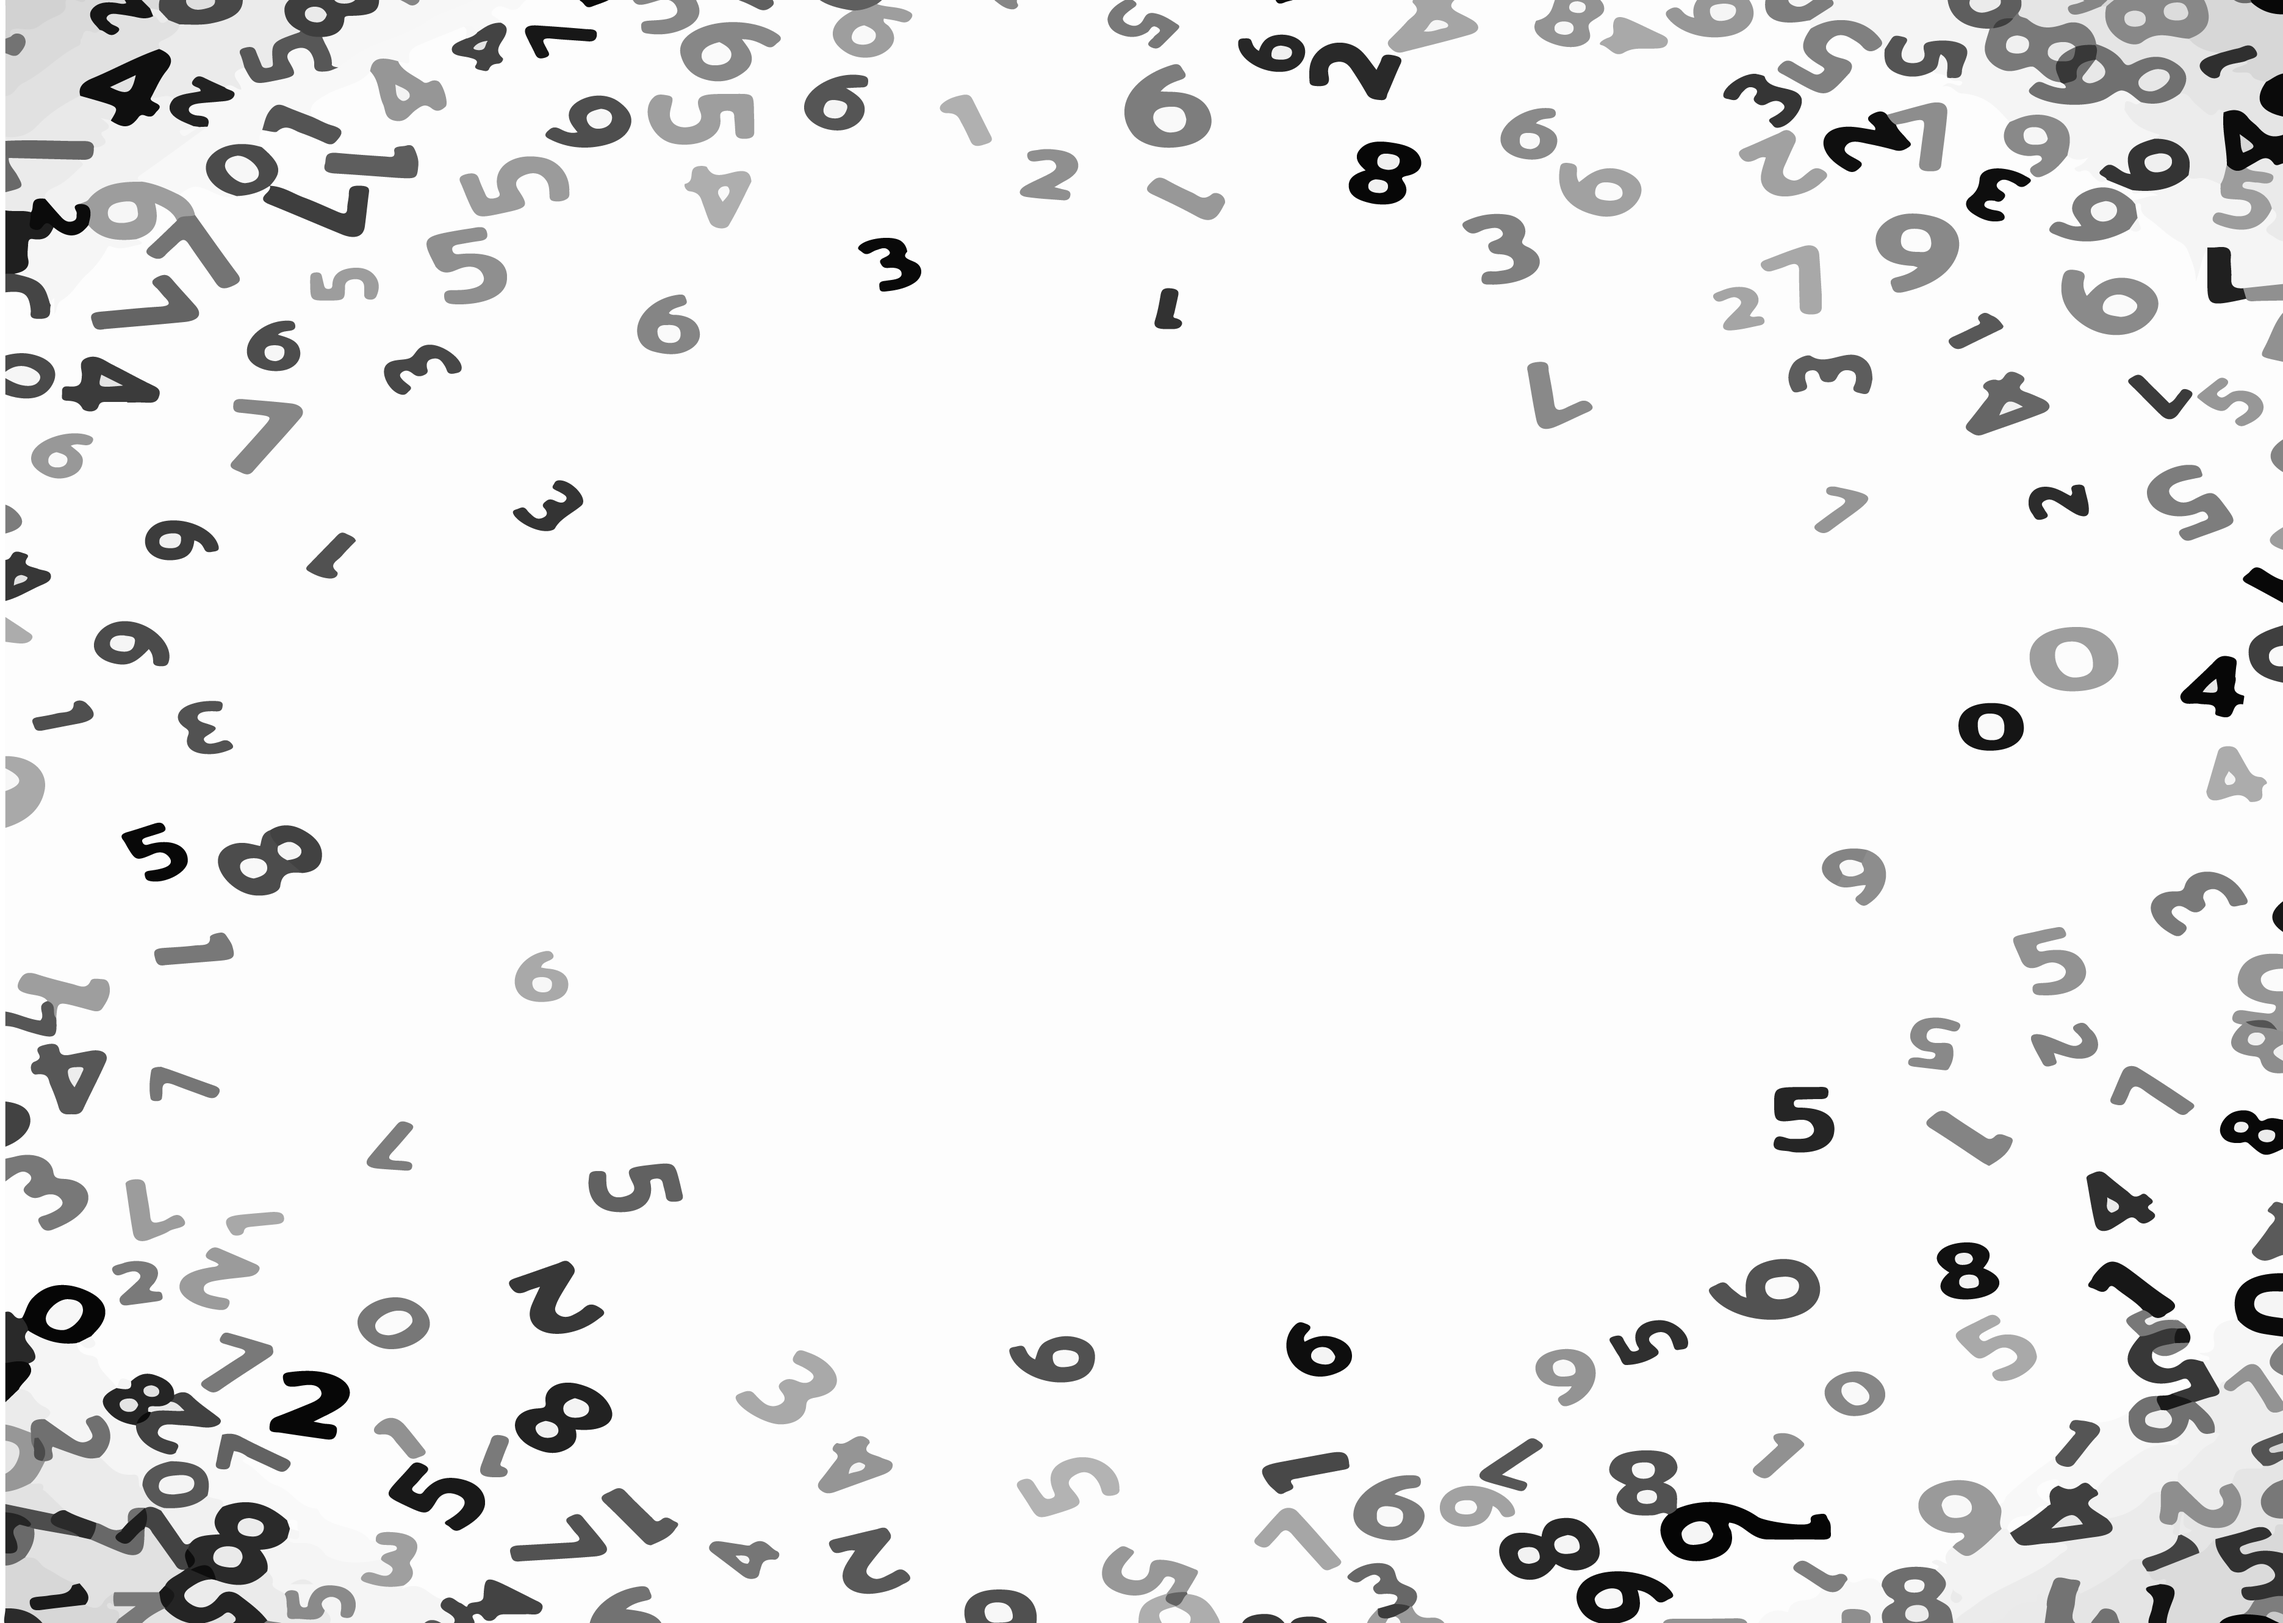
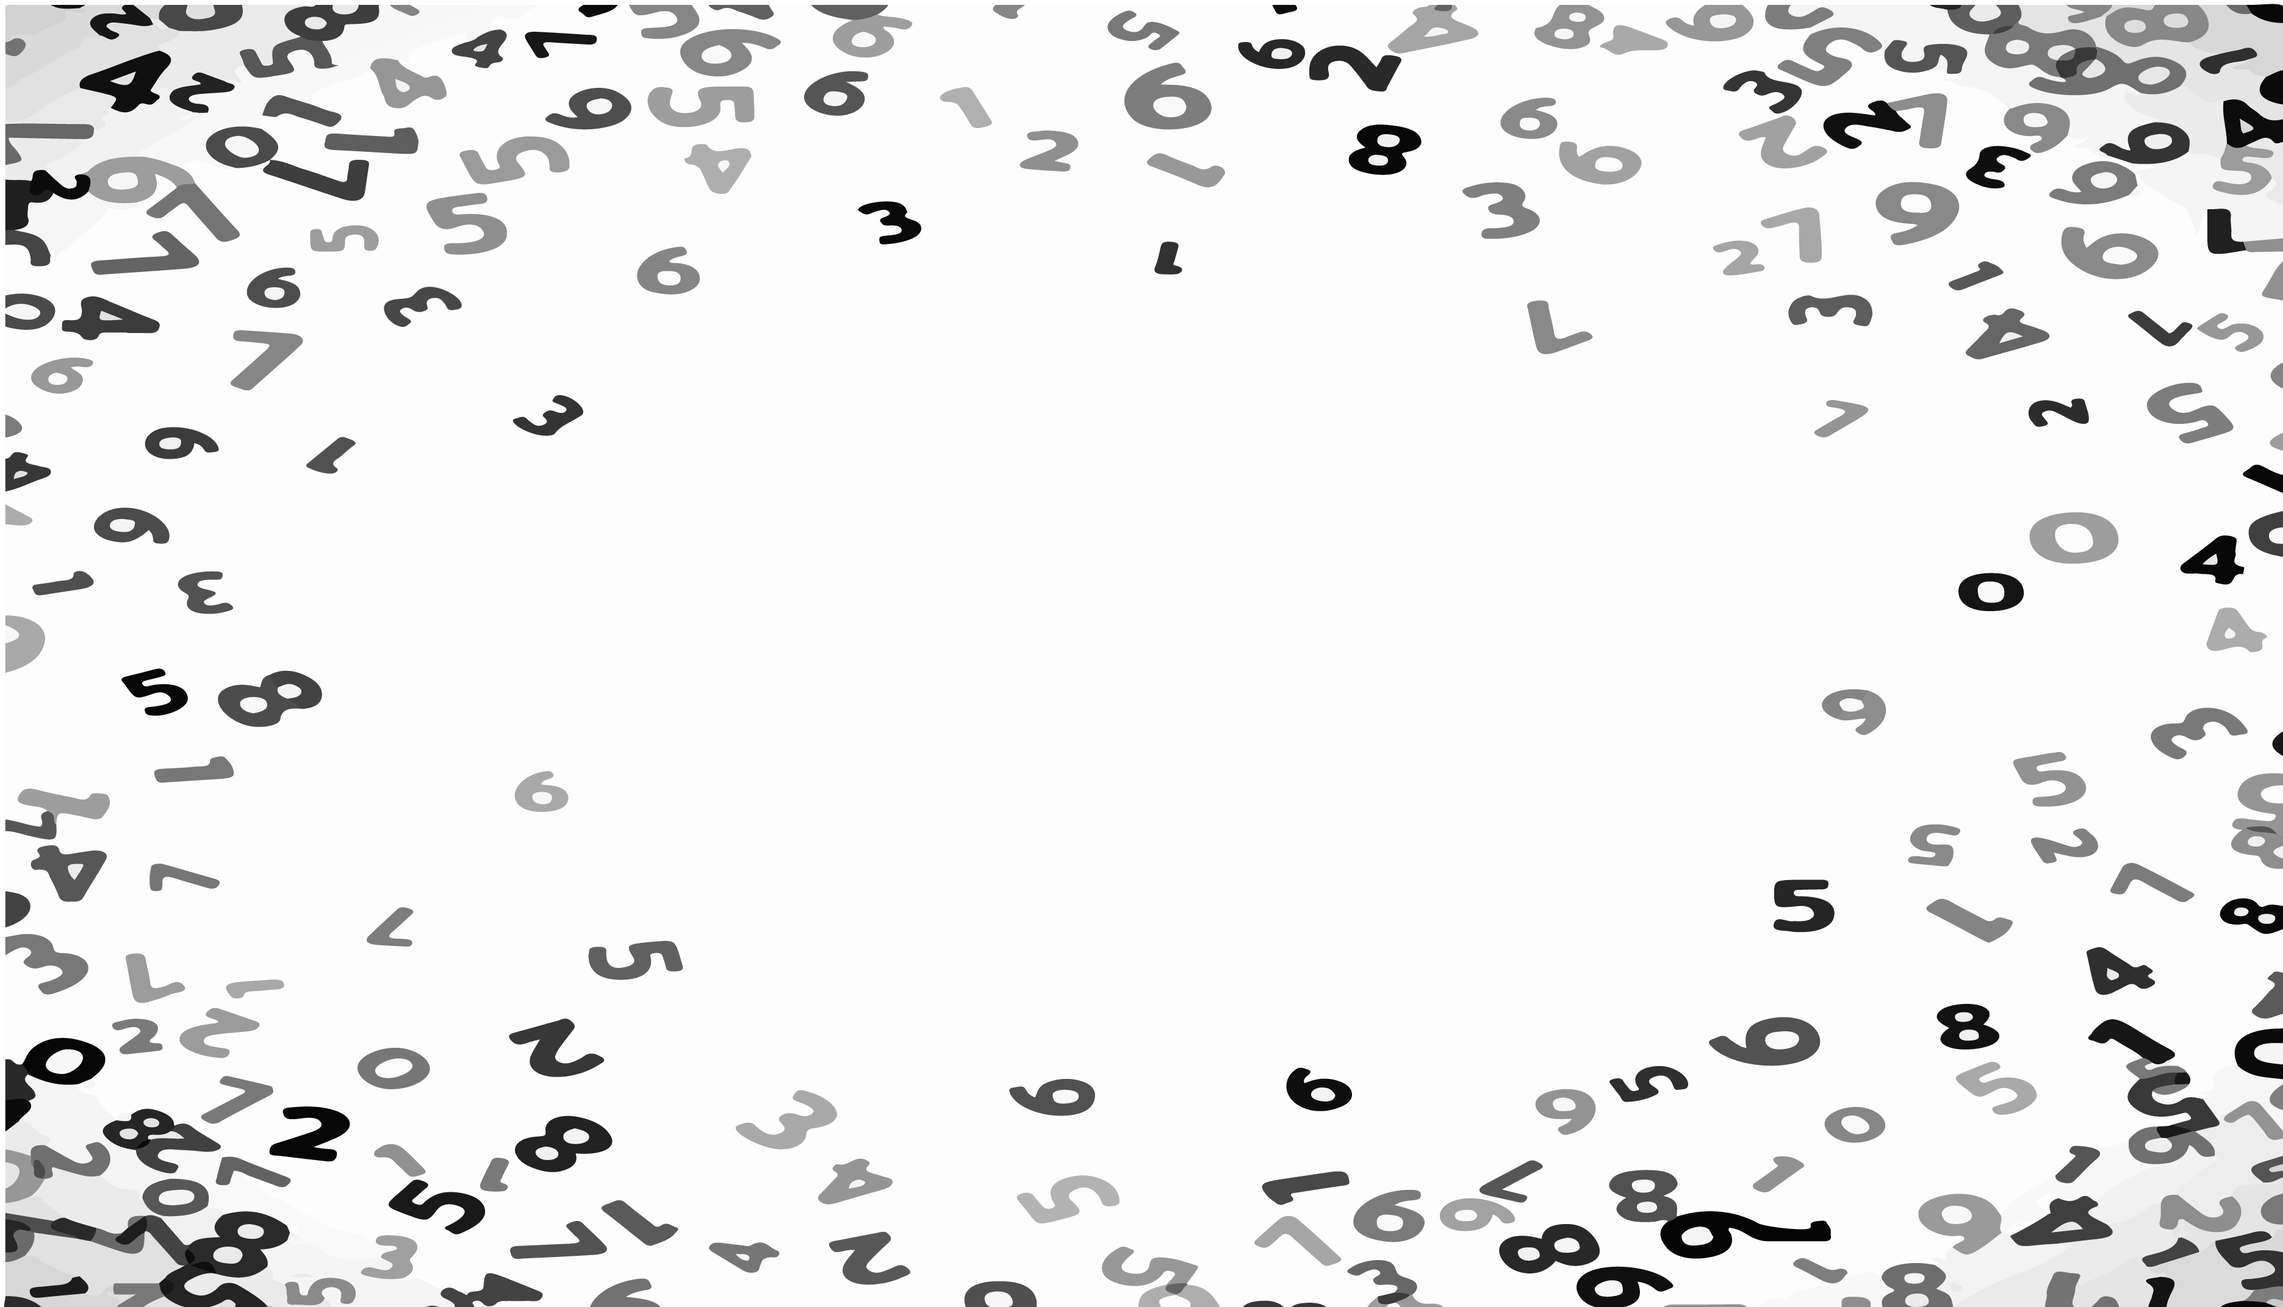
Trying background image

diff --git a/index.html b/index.html
@@ -393,7 +393,7 @@
   
   
 
-  <section id="about" class="home-section wg-about  parallax " style="background-image: linear-gradient(rgba(0, 0, 0, 0.5), rgba(0, 0, 0, 0.5)), url(&#39;https://Alexander-Nestor-Bergmann.github.io/img/backgroundArtboard.png&#39;);" >
+  <section id="about" class="home-section wg-about  parallax " style="background-image: linear-gradient(rgba(0, 0, 0, 0.1), rgba(0, 0, 0, 0.1)), url(&#39;https://Alexander-Nestor-Bergmann.github.io/img/backgroundArtboard.png&#39;);" >
     <div class="container">
       
 
